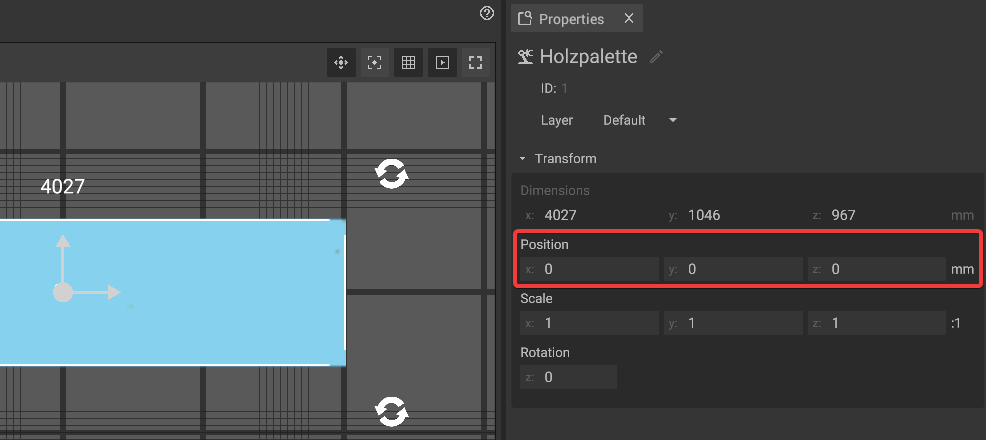
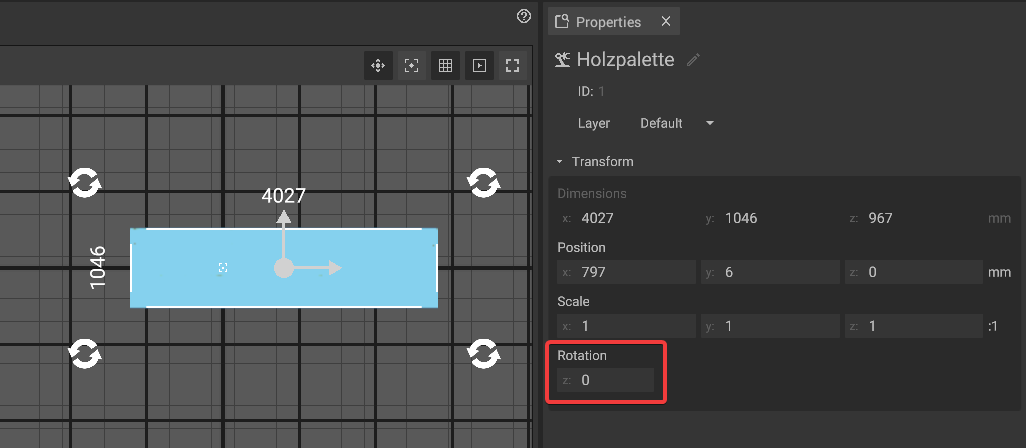
Update RotateObjects
New Screenshots

diff --git a/home/ivp-planning/machines/scale-and-rotate-objects.md b/home/ivp-planning/machines/scale-and-rotate-objects.md
@@ -14,24 +14,22 @@ Currently it is only possible to rotate objects around a vertical axis. A free r
 
 To rotate an object in the [2D-panel](../user-interface/the-2d-panel.md) **drag and drop the arrows** near the corners of the object.
 
-![](../../../.gitbook/assets/iVP\_guide\_rotate\_objects\_2D\_panel.jpg)
+![](../../../.gitbook/assets/iVP_Planning_ObjectInteraction_2DMoveObjects0.png)
 
 If you are using a tablet or a laptop or if you want a quick standard rotation, you can also use the **rotation buttons** in the [toolbar of the 2D-panel](../user-interface/the-2d-panel.md#the-toolbar-of-the-2d-panel). The rotation amount per click can be changed in the [global settings](../settings/global-settings.md).
 
-![](../../../.gitbook/assets/iVP\_guide\_rotate\_objects\_2D\_panel\_buttons.jpg)
+![](../../../.gitbook/assets/iVP_Planning_ObjectInteraction_2DMoveObjects1.png)
 
 ## Rotating objects in the 3D-panel:
 
 To rotate an object in the [3D-panel](../user-interface/the-3d-panel.md) first make sure that you activated the **rotation mode** by clicking on the respective button of the [3D-panel toolbar](../user-interface/the-3d-panel.md#the-toolbar-of-the-3d-panel).
 
-![](../../../.gitbook/assets/iVP\_guide\_rotate\_objects\_3D\_panel\_toolbar\_icon.jpg)
+![](../../../.gitbook/assets/iVP_Planning_ObjectInteraction_3DMoveObjects.png)
 
 As soon as you are in the rotation mode, the handle in the center of the object will change to a virtual sphere represented by three circles. **Drag one of the circles** to rotate around the respective axis.
 
-![](../../../.gitbook/assets/iVP\_guide\_rotate\_objects\_3D\_panel.jpg)
+## Rotating objects via the properties panel:
 
-## Rotating objects via the info panel:
+It is possible to rotate an object via **text input** in the [properties panel](../user-interface/the-properties-panel.md). The number entered in the field equals the clockwise rotation around a vertical axis.
 
-It is possible to rotate an object via **text input** in the [info panel](../user-interface/the-info-panel.md). The number entered in the field equals the clockwise rotation around a vertical axis.
-
-![](../../../.gitbook/assets/iVP\_guide\_rotate\_objects\_info\_panel.jpg)
+![](../../../.gitbook/assets/iVP_Planning_ObjectInteraction_PropertiesMoveObjects.png)
